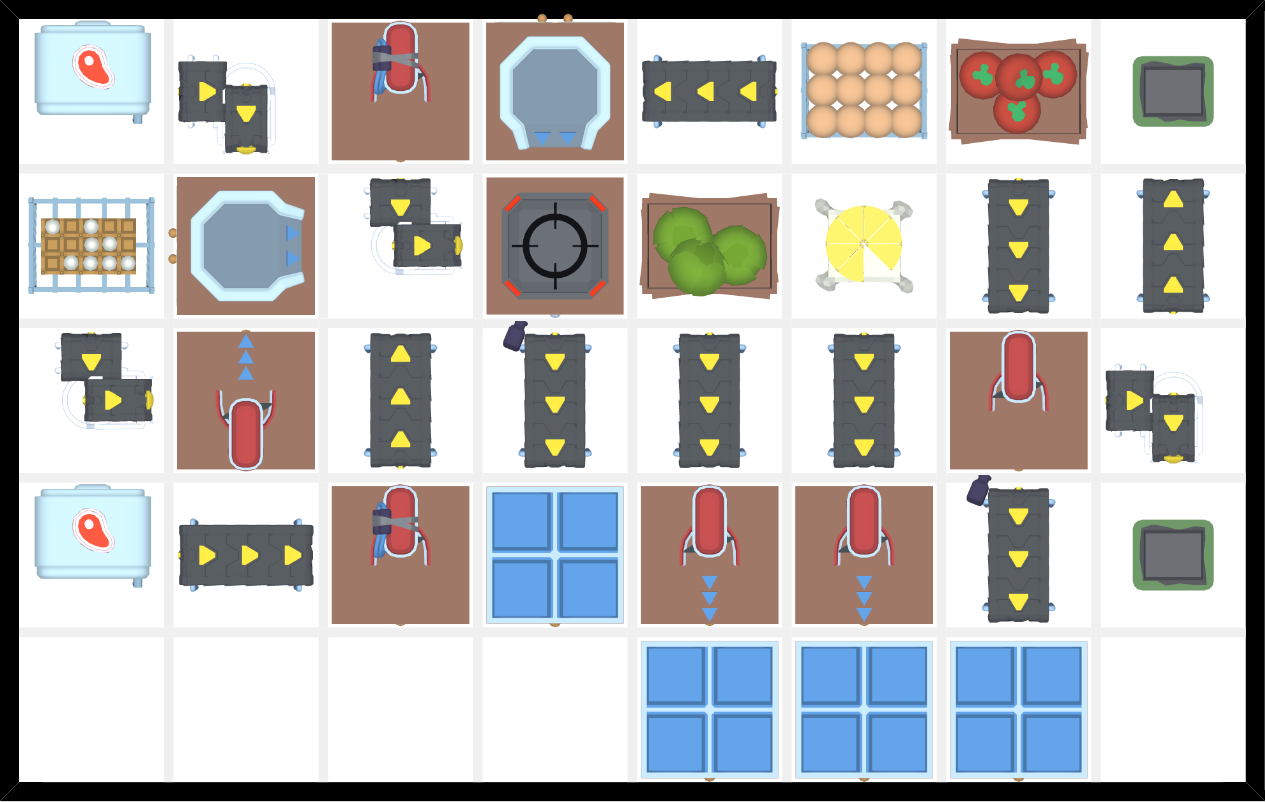
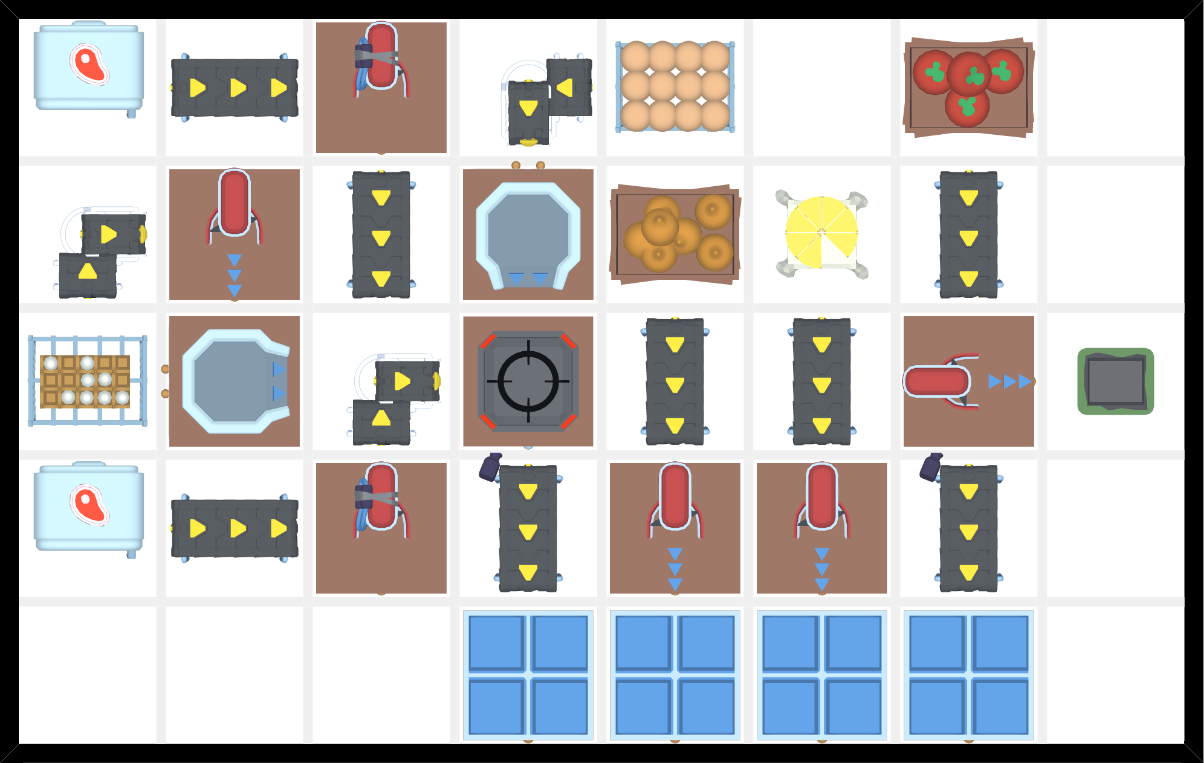
Changed burgers to onion, fixed up StirFry + Pizza

diff --git a/guide/mains/stir_fry.md b/guide/mains/stir_fry.md
@@ -26,9 +26,12 @@ The second setup automatically adds rice and chopped ingredients into the woks. 
 
 ## Extra Flavours
 
-The third setup automatically chops and prepares all ingredients in a neat line across from hobs. The rice and woks are still manual, but rice can be automated as shown below if access isn’t needed from the other side.
+The third setup automatically chops and prepares all ingredients in a neat line across from the hobs. The rice and woks are still manual, but rice can be automated as shown in the following design if access isn’t needed from the other side.
 
-![stir_fry_3.png](</assets/images/guide/mains/stir_fry/stir_fry_3.png>)
+![stir_fry_4.png](</assets/images/guide/mains/stir_fry/stir_fry_4.png>)
+
+![stir_fry_5.png](</assets/images/guide/mains/stir_fry/stir_fry_5.png>)
+
 
 ## Soy Sauce
 

diff --git a/guide/mains/burgers.md b/guide/mains/burgers.md
@@ -35,8 +35,6 @@ The second design here is slower, but smaller, and simpler; yet we love it all t
 
 Now let’s put all the steps of this dance together and see how it looks: complex, but could be worse.
 
-The left half makes fresh patty burgers as fast as the danger hob can cook; The right half makes all toppings, with tomato slices automation speed turned up to 11!
-
-You can move the left half down 1 tile so all the freps line up, dealer/reader’s choice.
+The left half makes fresh patty burgers as fast as the danger hob can cook; The right half makes all toppings. Add an extra compactor bin on the right column to turn tomato slices automation speed turned up to 11!
 
 ![burgers_full.png](</assets/images/guide/mains/burgers/burgers_full.png>)

diff --git a/index.md b/index.md
@@ -20,17 +20,17 @@ This document is never finalized, and will continuously be updated with new and 
 ## Roadmap
 
 - Bakery Foods
+- Improve existing designs
+- 2 loop soups
 - Modded Food Automation Guide (in progress)
 - Icons on Smart Grabbers
 - Automated Dishwashing
-- Auto Bussing Tables (removing plates)
+- Auto bussing tables (removing plates)
 - Auto serving dishes
 - Automated Ice Cream (yes, really)
 
 ### Contains: 
 - 100+ designs
-- 100+ hours
+- 100+ hours of work
+- 1000+ hours of experience
 - 4500+ words
-
-
-## Contact

diff --git a/guide/mains/pizza.md b/guide/mains/pizza.md
@@ -10,6 +10,7 @@ nav_order: 7
 
 “Soggy crust” is a technique to instantly make a crust by putting oil in a sink and using flour on it. The oil isn’t in the sink here, but it’s the same idea. Set the smart grabber to pizza crust so you don’t make accidental bread.
 
+## Cheese Pizza
 ![pizza.png](</assets/images/guide/mains/pizza/pizza.png>)
 
 

diff --git a/guide/mains/turkey.md b/guide/mains/turkey.md
@@ -19,6 +19,8 @@ In the fast design: the first compactor bin empties faster than turkey burns, an
 
 ## Cranberry Sauce
 
+Ahhh, the friendly Turkey extra. Easy to make, easier to automate, and a nice change of pace stuffed between Gravy and ...well Stuffing.
+
 ![turkey_cranberry.png](</assets/images/guide/mains/turkey/turkey_cranberry.png>)
 
 

diff --git a/guide/sides/chips_potato.md b/guide/sides/chips_potato.md
@@ -10,5 +10,4 @@ nav_order: 2
 
 Yes, your eyes are not deceiving you. There are 2 recipes automated in the same design. Potatoes are just so versatile. Jacket Potato at the top, Chips on the bottom. Heated mixers chip machines
 
-
 ![chips_potato.png](</assets/images/guide/sides/chips_potato.png>)
